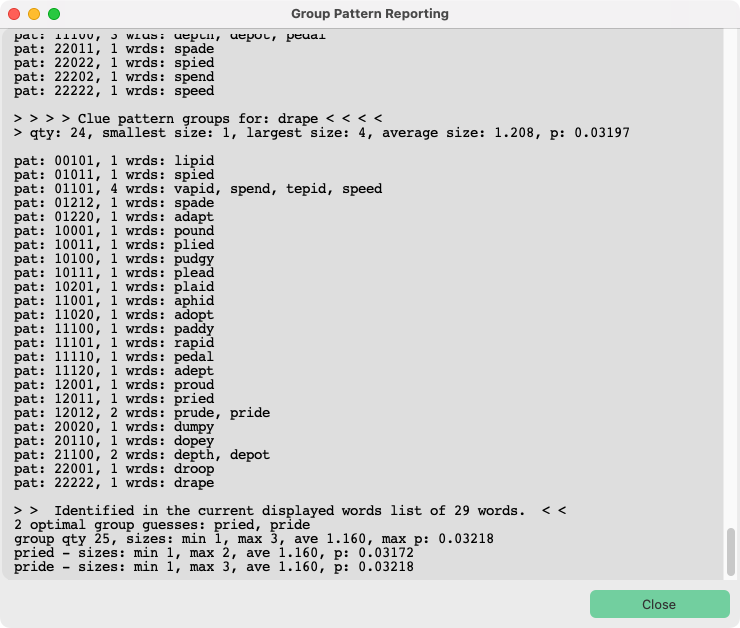
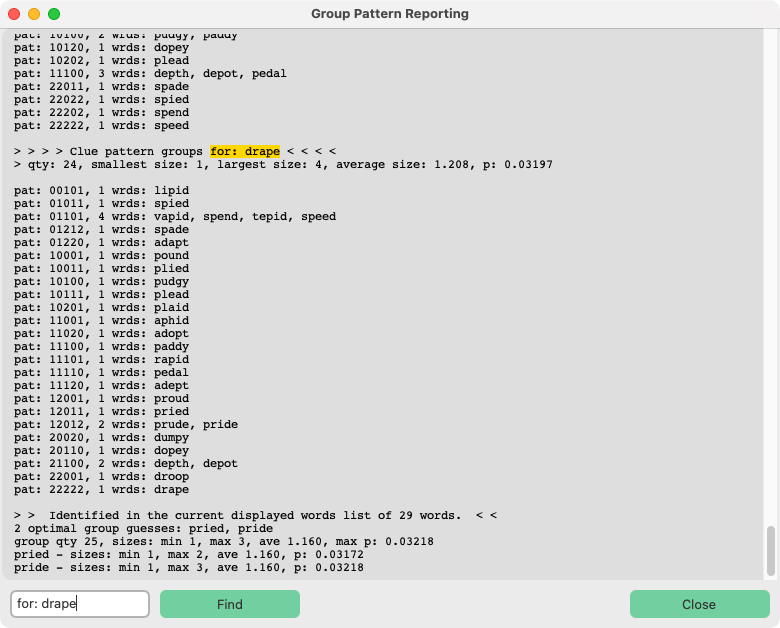
Refining Groups report Find feature & documentation

diff --git a/helpers.py b/helpers.py
@@ -475,7 +475,7 @@ def extended_best_groups_guess_dict(word_lst: list, reporting: bool, all_targets
 
     if reporting:
         reporting_summary_header_to_window("vocabulary", all_targets, best_rank_dict, rptwnd)
-        stats_summary_to_window(best_rank_dict, rptwnd)
+        stats_summary_footer_to_window(best_rank_dict, rptwnd)
     return best_rank_dict
 
 
@@ -527,7 +527,7 @@ def best_groups_guess_dict(word_lst: list, reporting: bool) -> dict:
     # best_rank_dict dictionary of words as keys, grp_stats as values.
     if reporting:
         reporting_summary_header_to_window("displayed", word_lst, best_rank_dict, rptwnd)
-        stats_summary_to_window(best_rank_dict, rptwnd)
+        stats_summary_footer_to_window(best_rank_dict, rptwnd)
     return best_rank_dict
 
 
@@ -538,6 +538,7 @@ def reporting_summary_header_to_window(msg: str, source_list: any, best_rank_dic
     rptwnd.msg1.insert(tk.END, rptl)
     rptl = '\n{0:.0f}'.format(len(wrds)) + ' optimal group guesses: ' + ', '.join(wrds)
     rptwnd.msg1.insert(tk.END, rptl)
+
 
 
 def reporting_header_to_window(msg: str, source_list: any, rptwnd: ctk) -> NoReturn:
@@ -566,7 +567,7 @@ def clue_pattern_groups_to_window(guess: any, grp_stats: tuple, guess_groups_dic
     rptwnd.msg1.insert(tk.END, '\n')
 
 
-def stats_summary_to_window(best_rank_dict: dict, rptwnd: ctk) -> NoReturn:
+def stats_summary_footer_to_window(best_rank_dict: dict, rptwnd: ctk) -> NoReturn:
     # stats_summary [0]:qty, [1]:smallest, [2]:largest, [3]:average , [4]:max prob as a tuple
     stats_summary = groups_stat_summary(best_rank_dict)
     rptl = "\ngroup qty " + '{0:.0f}'.format(stats_summary[0]) + \
@@ -584,7 +585,8 @@ def stats_summary_to_window(best_rank_dict: dict, rptwnd: ctk) -> NoReturn:
                ", p: " + '{0:.5f}'.format(s[4])
         rptwnd.msg1.insert(tk.END, rptl)
         rptwnd.msg1.see('end')
-
+    # lock the text widget to prevent user editing
+    rptwnd.msg1.configure(state='disabled')
 
 # A class used for holding list stack of the shell commands
 # It has functions that build greps related to filtering wordle
@@ -767,11 +769,13 @@ class CustomText(tk.Text):
         tk.Text.__init__(self, *args, **kwargs)
 
     def highlight_pattern(self, pattern, tag, start="1.0", end="end",
-                          regexp=True):
+                          regexp=True, remove_priors=True):
         """Apply the given tag to all text that matches the given pattern
         If 'regexp' is set to True, pattern will be treated as a regular
         expression according to Tcl's regular expression syntax.
         """
+        if remove_priors:
+            self.tag_remove(tag, "1.0", "end")
 
         start = self.index(start)
         end = self.index(end)
@@ -805,10 +809,10 @@ class RptWnd(ctk.CTkToplevel):
         self.destroy()
 
     def search_for_text(self):
-        search_text= ''
+        search_text = ''
         regex: search_text = self.search_text.get().strip()
-        if len(regex) > 0:
-            self.msg1.highlight_pattern(regex, 'grp')
+        if len(regex) > 4:
+            self.msg1.highlight_pattern(regex, 'grp', remove_priors=True)
 
     def __init__(self):
         super().__init__()
@@ -817,6 +821,7 @@ class RptWnd(ctk.CTkToplevel):
 
         font_tuple_n = ("Courier", 12, "normal")
         self.search_text = tk.StringVar()
+        self.search_text.set('for: ')
 
         self.info_frame = ctk.CTkFrame(self,
                                        corner_radius=10,
@@ -856,9 +861,9 @@ class RptWnd(ctk.CTkToplevel):
         entry_find = ctk.CTkEntry(self,
                                   textvariable=self.search_text
                                   )
-        entry_find.pack(side=tk.LEFT, padx=2, pady=10)
+        entry_find.pack(side=tk.LEFT, padx=10, pady=10)
 
         button_f = ctk.CTkButton(self, text="Find",
                                  command=self.search_for_text
                                  )
-        button_f.pack(side="left", padx=10, pady=10)
+        button_f.pack(side="left", padx=0, pady=10)

diff --git a/pywt.py b/pywt.py
@@ -256,7 +256,7 @@ class Pywordlemainwindow(ctk.CTk):
                 rand_pick = word + mid_div + rank
                 # highlight the rand_pick, which also scrolls the widget
                 # to the rand_pick's line.
-                tx_result.highlight_pattern(rand_pick, 'ran')
+                tx_result.highlight_pattern(rand_pick, 'ran', remove_priors=False)
                 comment = " (1 random pick selected)"
 
             # group ranking
@@ -300,7 +300,7 @@ class Pywordlemainwindow(ctk.CTk):
                         words_in_common = list(set(displayed_as_list) & set(opt_group_guesses_as_list))
                         regex: str = helpers.regex_maxgenrankers(words_in_common, the_word_list)
 
-                tx_result.highlight_pattern(regex, 'grp')
+                tx_result.highlight_pattern(regex, 'grp', remove_priors=False)
                 comment = " (" + str(len(opt_group_guesses_as_list)) + " optimal" + \
                           ", grp qty: " + '{0:.0f}'.format(stats_summary[0]) + \
                           ", sizes: min " + '{0:.0f}'.format(stats_summary[1]) + \

diff --git a/README.md b/README.md
@@ -82,7 +82,11 @@ After installing python3 and pip, the following commands entered in a Terminal w
 * Optimal group analysis should be performed on the total selection list that contains multiple letters because the analysis is for selecting the solution versus guessing for letter discovery.
 
 !['Main Window Image'](InfoImages/PYWTVerboseGrpsTop.png)
+
+* The **Verbose Report** **Find** button scrolls the report window to the last found search text instance, which will be highlighted. Include **'for: '** in the search text when searching for a guess word's pattern. Include **'qty: '**' when searching for guesses having the same group quantities. To avoid finding to many text instances the search text must have five or more characters, beware however; it is possible to hopelessly bog down the search when trying to highlight commonly found text. Verbose reports using the **Large** vocabulary can be 400,000 text lines. Verbose report text can be copy-pasted into text editors.
+
 !['Main Window Image'](InfoImages/PYWTVerboseGrpsBot.png)
+
 ### Wordle Play Strategies
 
 * Discover Wordle play strategies yourself with the Helper's assistance. That was the reason for creating this Helper.
